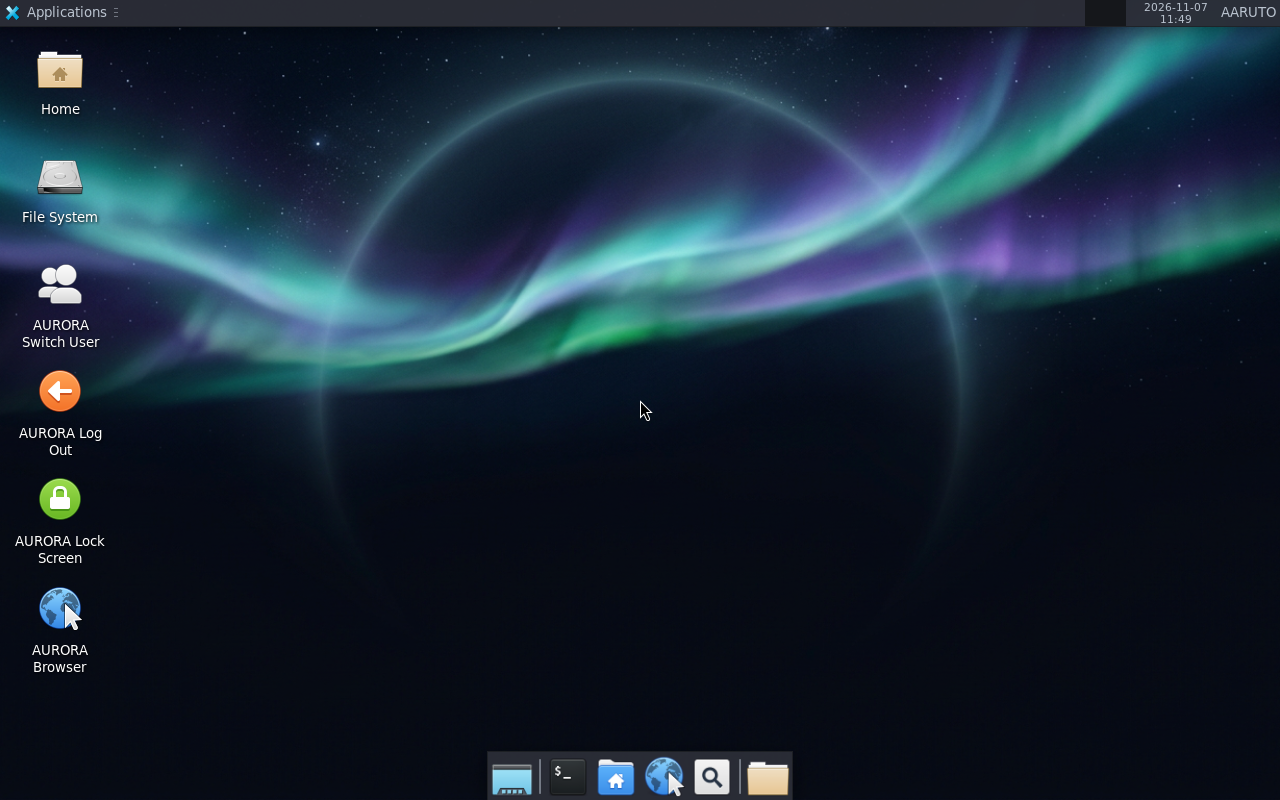
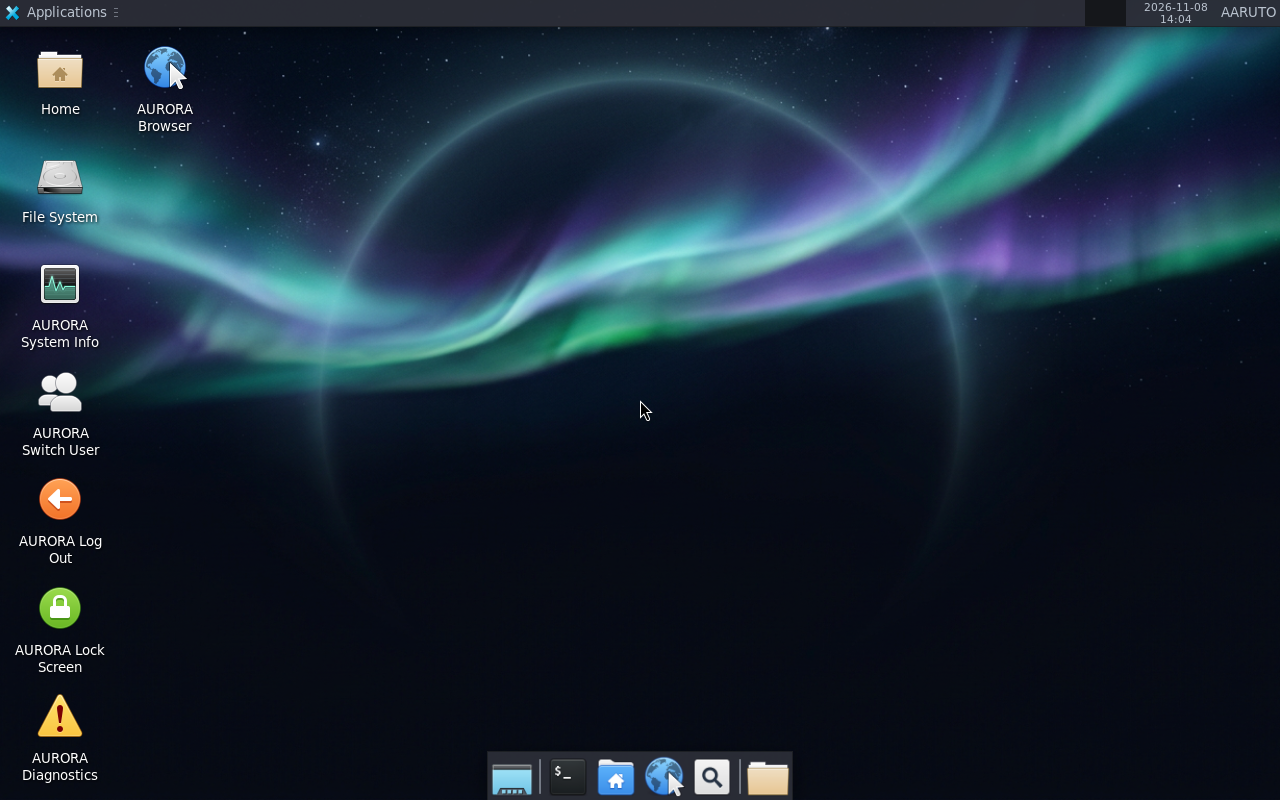
Add AURORA System Info and Diagnostics apps
Milestone 4/M8 groundwork: GTK3 applications reading real system data
(failed units, boot errors with redaction, disk, memory, network, session),
plus Settings and Applications launchers and desktop icons. Verified in p15:
Diagnostics renders live data; System Info logs its launch (text capture
lagged under TCG). ISO rebuilt, checksum updated.

diff --git a/scripts/qemu-login-test.py b/scripts/qemu-login-test.py
@@ -331,7 +331,13 @@ def as_ubuntu(command, timeout=35, background=False):
     return ser_cmd(script, timeout)
 
 
-def launch_browser(label="07-browser"):
+def launch_app(command, label, timeout=150):
+    as_ubuntu(command, 25, background=True)
+    time.sleep(35)
+    log(str(shot_when_drawn(label, timeout)))
+
+
+def launch_browser(label="05-browser"):
     log("== browser ==")
     log(as_ubuntu("/usr/local/bin/aurora-browser --version 2>&1"))
     as_ubuntu("setsid /usr/local/bin/aurora-browser about:blank >/home/ubuntu/aurora-browser.log 2>&1", 25, background=True)
@@ -429,7 +435,13 @@ if first:
                 "loginctl list-sessions --no-legend", 25))
     log("== DPMS ==")
     log(as_ubuntu("xset q | grep -i -A1 'DPMS\\|screen saver'"))
-    browser_ok = launch_browser("03-browser")
+    log("== system info app ==")
+    launch_app("/usr/local/bin/aurora-system-info", "03-system-info")
+    as_ubuntu("pkill -u ubuntu -f aurora-system-info")
+    log("== diagnostics app ==")
+    launch_app("/usr/local/bin/aurora-diagnostics", "04-diagnostics")
+    as_ubuntu("pkill -u ubuntu -f aurora-diagnostics")
+    browser_ok = launch_browser("05-browser")
     log(f"browser ok={browser_ok}")
     log("== syslog session actions ==")
     log(ser_cmd("journalctl -t aurora -b --no-pager | tail -n 8", 40))

diff --git a/README.md b/README.md
@@ -53,6 +53,7 @@ split (KI-018).
 - **Live session** — runs entirely from ISO, no installation needed
 - **AURORA Browser** (Mozilla Firefox 159.0.1, software WebRender) with a launcher — renders fully without a GPU; Falkon and Epiphany remain installed as fallbacks
 - **Session actions** — Log Out, Switch User (LightDM dm-tool) and Lock Screen
+- **AURORA apps** — System Info (kernel, CPU, memory, storage, session), Diagnostics (failed units, boot errors, resources), Settings and Applications launchers
 - **Fast boot** — offline-only units masked, 30 s systemd job timeouts, apt fast-fail
 - **BIOS-only image** — tested in QEMU (UEFI not supported; no installer)
 
@@ -60,7 +61,7 @@ split (KI-018).
 
 | Version | Size | SHA256 |
 |---------|------|--------|
[2 lines of base64/hex data omitted]
 
 > **Note:** BIOS-only live image. UEFI boot not yet supported (KI-015).
 
@@ -162,9 +163,9 @@ aurora-os/
 |:------------:|:-----------:|
 | ![Logout](docs/screenshots/after-logout.png) | ![Switch](docs/screenshots/switch-user.png) |
 
-| AURORA Browser (Firefox) |
-|:------------------------:|
-| ![Browser](docs/screenshots/browser.png) |
+| AURORA Browser (Firefox) | AURORA Diagnostics |
+|:------------------------:|:-------------------:|
+| ![Browser](docs/screenshots/browser.png) | ![Diagnostics](docs/screenshots/diagnostics.png) |
 
 | AURORA Browser (Falkon) |
 |:------------------------:|

diff --git a/docs/TESTING.md b/docs/TESTING.md
@@ -262,6 +262,26 @@ fix for a GPU-less VM.
 - A GPU-capable VM could not be provisioned here (no VMware installer; QEMU virgl has no DRM in
   WSL), so the PASS is for the software path, which is what the live image uses.
 
+
+---
+
+## Phase L - AURORA applications (0.5.0-dev, 2026-11-08)
+
+Image: `aurora-os-0.5.0-dev-amd64.iso`, 1,050,607,616 bytes, SHA256
[1 lines of base64/hex data omitted]
+`/home/aaruto/aurora-test/p15` (QEMU TCG, one VM).
+
+| ID | Test | Result | Evidence |
+|---|---|---|---|
+| L-01 | System Info opens and reads real data | PASS (window; text capture lagged) | `AURORA_SYSTEM_INFO_OK` in syslog; window titled "AURORA System Info" captured in `03-system-info.png`, but the text area had not painted at capture time under TCG |
+| L-02 | Diagnostics shows real boot data | PASS | `docs/screenshots/diagnostics.png`: failed units "none", boot errors "No entries", disk `/`, memory, network loopback, last boot timestamp; `AURORA_DIAGNOSTICS_OK` |
+| L-03 | Settings and Applications entries | PASS (present) | `usr/share/applications/aurora-settings.desktop` (xfce4-settings-manager) and `aurora-apps.desktop` (xfce4-appfinder) |
+| L-04 | Desktop icons for the new apps | PASS | `docs/screenshots/desktop.png` shows AURORA System Info and AURORA Diagnostics icons |
+| L-05 | Firefox browser still renders | PASS | `docs/screenshots/browser.png` from the same run |
+
+Note: the System Info text pane needs a longer paint wait under TCG; the app itself ran (log
+marker). Diagnostics proves the GTK3/PyGObject path renders text correctly.
+
 ---
 
 ## Existing myOS tests (reference only, not AURORA)

diff --git a/docs/screenshots/README.md b/docs/screenshots/README.md
@@ -10,6 +10,7 @@ All images are QEMU `screendump` captures from the 0.4.0-dev ISO
 | `desktop.png` | XFCE session after login: panel with `AARUTO`, desktop icons (Home, File System, AURORA Switch User, AURORA Log Out, AURORA Lock Screen, AURORA Browser), dock | `/home/aaruto/aurora-test/p7` |
 | `browser.png` | AURORA Browser (Falkon) window; the web view stays transparent under the software-only Xorg (KI-032) | `/home/aaruto/aurora-test/p10` |
 | `browser.png` | AURORA Browser (Mozilla Firefox) rendering its full window on the XFCE desktop | `/home/aaruto/aurora-test/p14` |
+| `diagnostics.png` | AURORA Diagnostics showing failed units, boot errors, disk, memory and network from the running system | `/home/aaruto/aurora-test/p15` |
 | `after-logout.png` | Greeter after logging out through `aurora-session-action`; the `ubuntu` session is gone | `/home/aaruto/aurora-test/p4` |
 | `switch-user.png` | Greeter after **Switch User** through LightDM `dm-tool`; the background session keeps running | `/home/aaruto/aurora-test/p4` |
 

diff --git a/docs/ROADMAP.md b/docs/ROADMAP.md
@@ -255,7 +255,7 @@ buttons; screenshots and serial logs recorded.
 
 ---
 
-## Milestone 4 - System utilities (NOT STARTED)
+## Milestone 4 - System utilities (IN PROGRESS)
 
 - System information from real sources.
 - Diagnostics: failed units, boot/session errors, package errors, with redaction.
@@ -325,6 +325,8 @@ strictly optional and never blocks boot or login.
 - Browser: Mozilla Firefox 159.0.1 with software WebRender renders fully under QEMU TCG
   (`aurora-test/p14`, `docs/screenshots/browser.png`); KI-032 closed.
 - Identity `0.5.0-dev (Milestone 4)`.
+- AURORA apps (Milestone 4/M8 groundwork): System Info, Diagnostics, Settings and Applications
+  launchers; Diagnostics verified against the running system.
 
 ## Immediate next actions
 

diff --git a/CHANGELOG.md b/CHANGELOG.md
@@ -18,6 +18,9 @@ All notable changes to AURORA OS are recorded here. Versions follow
 ### Changed
 
 - Identity bumped to `0.5.0-dev (Milestone 4)`.
+- AURORA applications: System Info, Diagnostics (failed units, redacted boot errors,
+  resources), Settings (xfce4-settings-manager) and Applications (xfce4-appfinder)
+  launchers, plus desktop icons.
 
 ## [0.4.0-dev] — 2026-11-06
 
